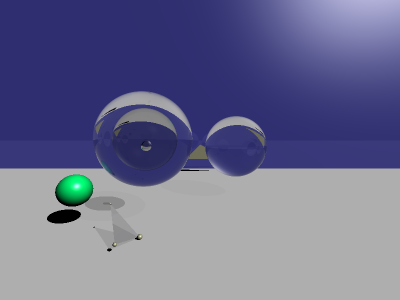
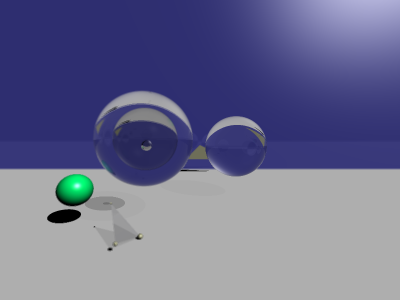
grumble

diff --git a/camera.h b/camera.h
@@ -21,7 +21,7 @@ public:
     std::size_t aperture_samples = 2;
 
     camera(world &w, const vector3df &location, const vector3df &front, const vector3df &up)
-        : camera(w, location, front, up, 367.0, 0.0)
+        : camera(w, location, front, up, 367.0, 5.0)
     {
 
     }

diff --git a/main.cpp b/main.cpp
@@ -69,7 +69,7 @@ void test_bezier()
 int main(int argc, char **argv)
 {
     test_bezier();
-    return 0;
+    // return 0;
 
     std::string filename = "test.png";
     if (argc >= 2)
